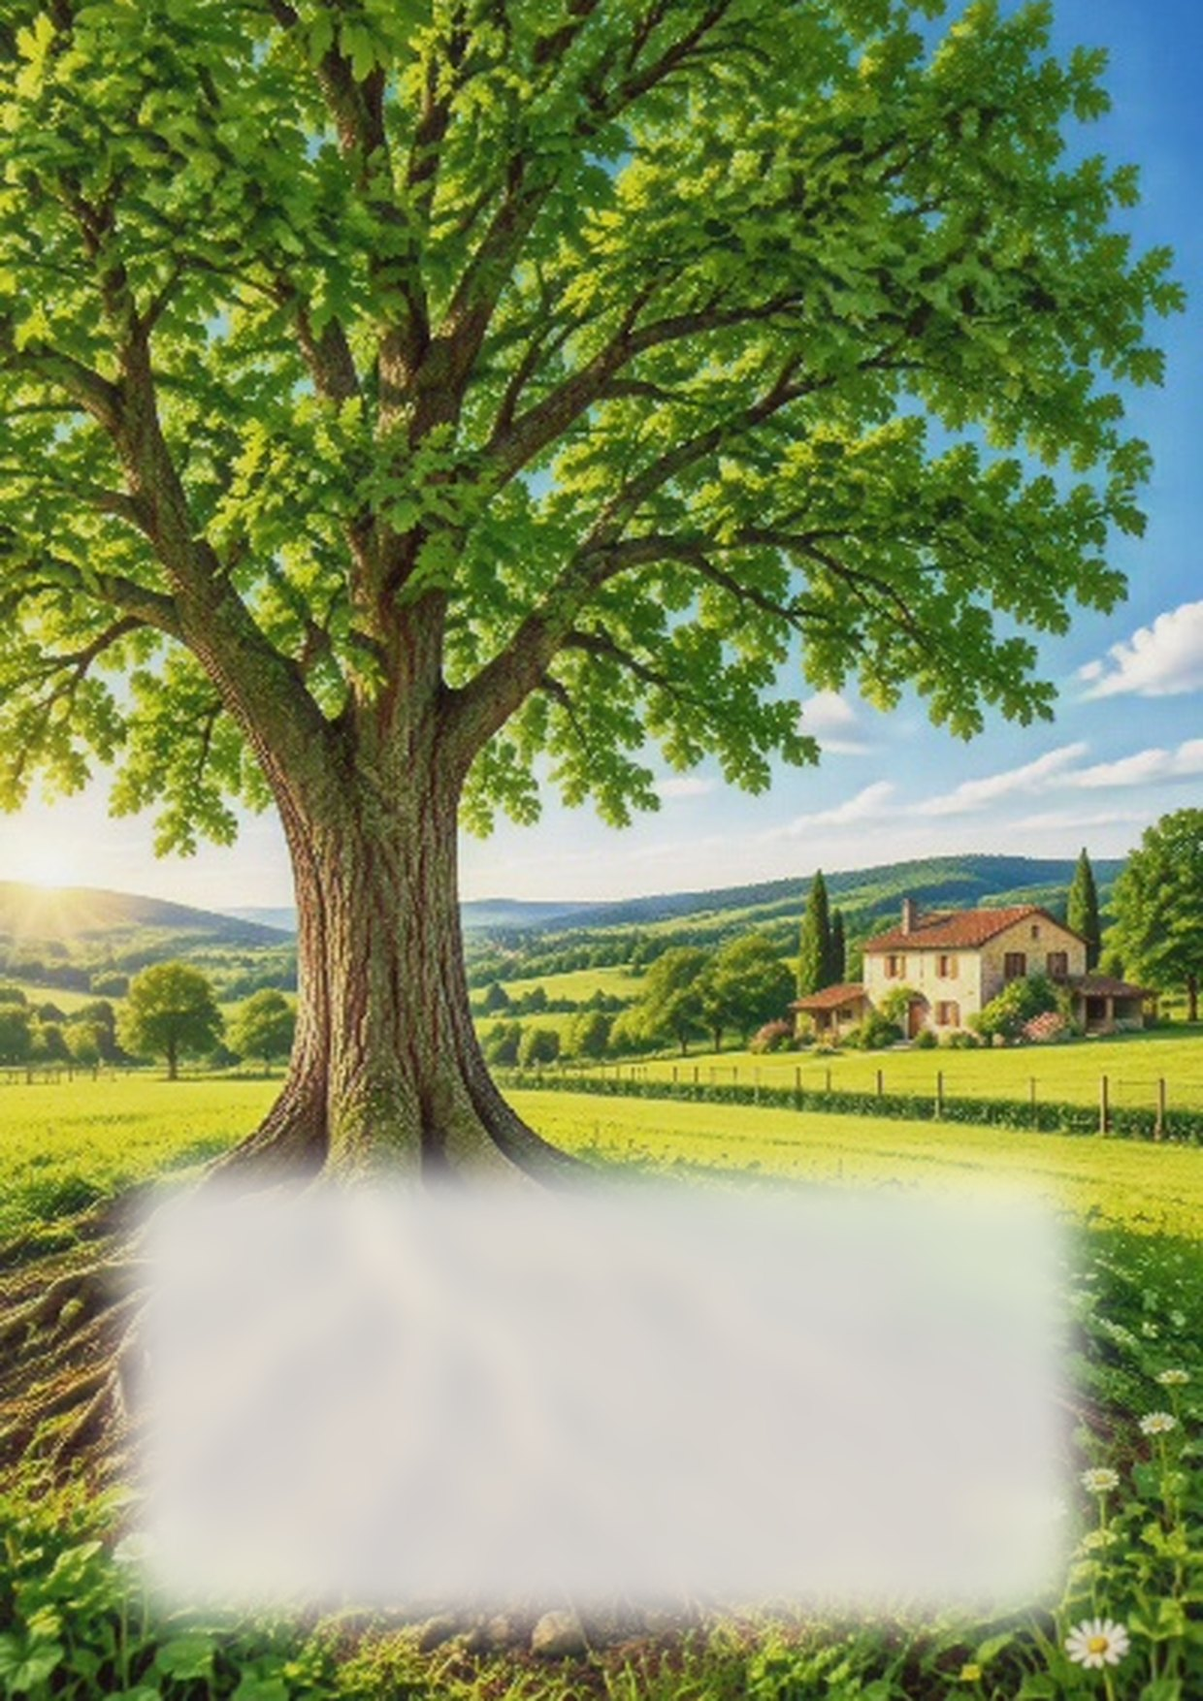
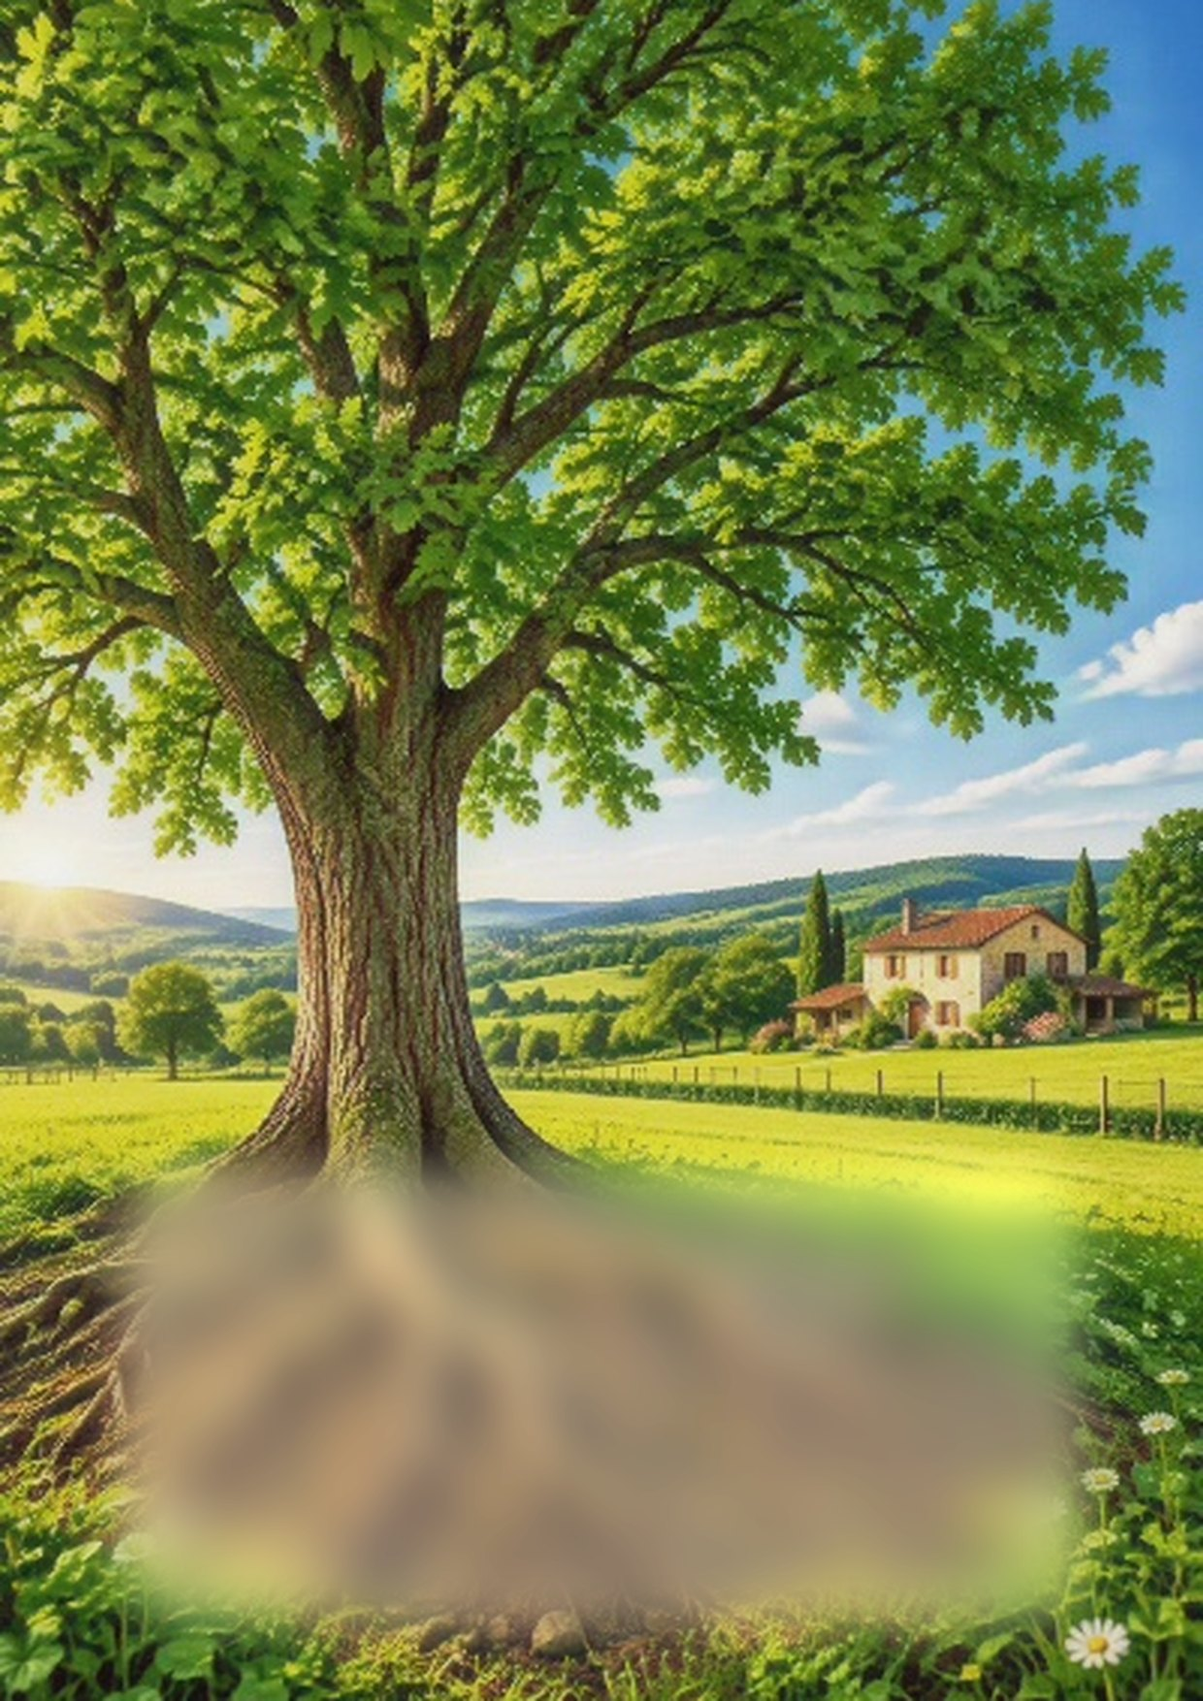
Livre 2.15.1 : panneau flouté transparent à 80 % sur les pochettes à chêne
Claude-Session: https://claude.ai/code/session_015kpz4oPeeMDrzqfLUgTJXp

Changed region(s): [[0.0613, 0.6773, 0.9194, 0.9852]]

diff --git a/modules/book/includes/class-renderer.php b/modules/book/includes/class-renderer.php
@@ -2299,7 +2299,7 @@ body { font-family: Georgia, "DejaVu Serif", serif; font-size: 11pt; line-height
 a { color: inherit; text-decoration: none; }
 a.ref { color: %head%; }
 .cover { text-align: center; padding-top: 4.5cm; page-break-after: always; }
-.cover.art-tree, .cover.art-ornament { padding-top: 2.2cm; } .cover img.cart { display: block; margin: 0 auto; } .cover img.tr { width: 9cm; } .cover img.trw { width: 14cm; } .cover.art-page { padding-top: 17cm; padding-left: 4cm; page-break-after: auto; } .cover.art-page h1 { margin: 0 0 .3em; font-size: 28pt; } .cover.art-page .author { margin-top: .6em; font-size: 12pt; } .cover.art-page.art-meadow { padding-top: 13.2cm; padding-left: 11.6cm; } .cover.art-page.art-meadow h1 { font-size: 21pt; } .cover.art-page.art-chene,.cover.art-page.art-peinture,.cover.art-page.art-chene2,.cover.art-page.art-chene3,.cover.art-page.art-chene4 { padding-top: 21.2cm; padding-left: 3.4cm; padding-right: 3.4cm; text-align: center; } .cover.art-page.art-chene h1,.cover.art-page.art-peinture h1,.cover.art-page.art-chene2 h1,.cover.art-page.art-chene3 h1,.cover.art-page.art-chene4 h1 { font-size: 24pt; } .cover.art-page.art-farm { padding-top: 14cm; padding-left: 5.4cm; } .cover.art-page.art-farm h1 { font-size: 26pt; } .cover.art-page .cover-stats { margin-top: .4cm; } .cover.art-page .gen-date { margin-top: .5cm; } .cover img.fl { width: 12cm; margin: .2cm auto; } .cover.art-tree h1, .cover.art-ornament h1 { margin: .35em 0 .25em; } .cover.art-tree .author, .cover.art-ornament .author { margin-top: 1em; } .cover.art-tree .cover-stats, .cover.art-ornament .cover-stats { margin-top: .6cm; } .cover.art-tree .gen-date, .cover.art-ornament .gen-date { margin-top: 1.2cm; } .cover.long h1 { font-size: 32pt; }
+.cover.art-tree, .cover.art-ornament { padding-top: 2.2cm; } .cover img.cart { display: block; margin: 0 auto; } .cover img.tr { width: 9cm; } .cover img.trw { width: 14cm; } .cover.art-page { padding-top: 17cm; padding-left: 4cm; page-break-after: auto; } .cover.art-page h1 { margin: 0 0 .3em; font-size: 28pt; } .cover.art-page .author { margin-top: .6em; font-size: 12pt; } .cover.art-page.art-meadow { padding-top: 13.2cm; padding-left: 11.6cm; } .cover.art-page.art-meadow h1 { font-size: 21pt; } .cover.art-page.art-chene,.cover.art-page.art-peinture,.cover.art-page.art-chene2,.cover.art-page.art-chene3,.cover.art-page.art-chene4 { padding-top: 21.2cm; padding-left: 3.4cm; padding-right: 3.4cm; text-align: center; } .cover.art-page.art-chene h1,.cover.art-page.art-peinture h1,.cover.art-page.art-chene2 h1,.cover.art-page.art-chene3 h1,.cover.art-page.art-chene4 h1 { font-size: 24pt; } .cover.art-page.art-chene .author,.cover.art-page.art-peinture .author,.cover.art-page.art-chene2 .author,.cover.art-page.art-chene3 .author,.cover.art-page.art-chene4 .author,.cover.art-page.art-chene .cover-stats,.cover.art-page.art-peinture .cover-stats,.cover.art-page.art-chene2 .cover-stats,.cover.art-page.art-chene3 .cover-stats,.cover.art-page.art-chene4 .cover-stats,.cover.art-page.art-chene .gen-date,.cover.art-page.art-peinture .gen-date,.cover.art-page.art-chene2 .gen-date,.cover.art-page.art-chene3 .gen-date,.cover.art-page.art-chene4 .gen-date { color: #1f1a17; font-weight: bold; } .cover.art-page.art-farm { padding-top: 14cm; padding-left: 5.4cm; } .cover.art-page.art-farm h1 { font-size: 26pt; } .cover.art-page .cover-stats { margin-top: .4cm; } .cover.art-page .gen-date { margin-top: .5cm; } .cover img.fl { width: 12cm; margin: .2cm auto; } .cover.art-tree h1, .cover.art-ornament h1 { margin: .35em 0 .25em; } .cover.art-tree .author, .cover.art-ornament .author { margin-top: 1em; } .cover.art-tree .cover-stats, .cover.art-ornament .cover-stats { margin-top: .6cm; } .cover.art-tree .gen-date, .cover.art-ornament .gen-date { margin-top: 1.2cm; } .cover.long h1 { font-size: 32pt; }
 .cover .rule { width: 70%; margin: 0 auto; height: 4px; border-top: 3px solid %head%; border-bottom: 1px solid %head%; }
 .cover h1 { font-size: 42pt; margin: .45em 0 .45em; line-height: 1.15; color: %head%; letter-spacing: .02em; }
 .cover .author { font-size: 14pt; margin-top: 2em; }

diff --git a/tng-suite.php b/tng-suite.php
@@ -2,7 +2,7 @@
 /**
  * Plugin Name: TNG Suite
  * Description: Suite unifiée pour TNG : arbres et descendance, bouton vers la fiche, frise chronologique, heatmap des lieux, galerie de médias, individu au hasard, nuage de noms et anniversaires, statistiques et graphiques, éventail (roue de parenté), implexe et consanguinité, livre généalogique, fiche et listes de documents. Un seul réglage de connexion (wp-config.php ou saisie dans le plugin), de préfixe et d'URL, et un réglage « vivants / privés » par module, en français ou en anglais.
- * Version: 2.15.0
+ * Version: 2.15.1
  * Requires PHP: 7.4
  * Requires at least: 5.8
  * Author: Cédric Malvache
@@ -23,7 +23,7 @@ if ( ! defined( 'ABSPATH' ) ) {
     exit;
 }
 
-define( 'TNGSUITE_VERSION', '2.15.0' );
+define( 'TNGSUITE_VERSION', '2.15.1' );
 define( 'TNGSUITE_FILE', __FILE__ );
 define( 'TNGSUITE_DIR', plugin_dir_path( __FILE__ ) );
 define( 'TNGSUITE_URL', plugin_dir_url( __FILE__ ) );

diff --git a/docs/fr/book.md b/docs/fr/book.md
@@ -38,7 +38,7 @@ La page (onglet **Documents**) comporte trois sections : **Livre : générer un 
 - Contexte historique (listes de faits) : le réglage « Chronologie : avec contexte historique » insère dans la chronologie, en italique, les faits des listes cochées dans la ligne « Contexte historique : listes à utiliser » ; les mêmes listes servent à la phrase « Contexte historique » des fiches. **Listes fournies** : France, Belgique, Suisse, Espagne, Italie, Allemagne, Royaume-Uni, États-Unis et Canada (textes en français, ou en anglais si le livre est dans une autre langue ; pour un livre en catalan ou en espagnol, copiez une liste dans vos listes et traduisez-la). **Vos listes** : dans **TNG Suite > Documents > Livre : réglages > Faits historiques**, créez autant de listes que vous voulez (France, England, Catalunya, España…) et écrivez-y les textes dans la langue de votre choix, une entrée par ligne : `1714-09-11 | Caiguda de Barcelona` pour un événement (date AAAA, AAAA-MM ou AAAA-MM-JJ) ou `1936-07-17 .. 1939-04-01 | la guerra civil` pour une période (guerre, régime… avec son article : elle sert à la phrase des fiches « pendant … » / « a vécu … »). La liste déroulante « Liste à modifier » donne accès à chacune de vos listes (modifiez puis « Enregistrer la liste » ; « Supprimer cette liste » l’efface), ou crée une **nouvelle liste**, vide ou copiée d’une liste fournie (copie modifiable, en français ou en anglais) : elle apparaît ensuite dans cette liste déroulante et dans les cases du formulaire du livre. Les **listes fournies** peuvent être retirées du formulaire du livre : sous l’éditeur, décochez celles dont vous n’avez pas besoin (elles restent disponibles comme modèles à copier ; recochez-les pour les remettre). Vous pouvez aussi exporter une liste en fichier `.txt` et en importer une. **Pour chaque livre** (et chaque profil), la ligne « Contexte historique : listes à utiliser » du formulaire permet de cocher les listes à afficher, par exemple France et Espagne pour monsieur X, et de choisir comment elles s’appliquent : **à tout le livre** (toutes les listes cochées valent pour toutes les personnes ; une même période, comme la Première Guerre mondiale, n’est citée qu’une fois dans les fiches) ou **selon le lieu de naissance** de chaque personne. Dans ce second cas, chaque liste porte des **mots-clés de lieu** (par exemple `Catalunya, Cataluña, Espanya`) : une personne reçoit les listes dont un mot-clé correspond à un élément de son lieu de naissance (ou de baptême), en partant de la fin. Une liste sans mot-clé vaut pour tout le monde (faits de famille, événements personnels) ; une seule liste à mots-clés cochée vaut pour tout le livre ; un lieu sans mot-clé reconnu reçoit la **liste par défaut** (à défaut, la première cochée), sauf s’il nomme un pays connu dont aucune liste n’est cochée (ex. Pologne : rien n’est ajouté). Avec plusieurs listes à mots-clés, une liste n’est retenue que si elle compte au moins deux personnes du livre (ou 3 %), seulement pour la période où ses personnes ont vécu, et chaque fait porte alors le nom de sa liste entre parenthèses. Les événements personnalisés des versions précédentes sont repris dans une liste « Événements personnalisés ».
 - Nouveau livre : le bouton « Nouveau livre » (et un premier réglage du plugin) part des réglages recommandés : modèle Élégant, cadre en filet simple, arbre de couverture en couleurs, format PDF (HTML si le PDF direct est indisponible), photos TNG avec silhouettes génériques, baptême et sépulture, phrases détaillées, lieux avec pays, informations militaires, notes, autres unions, fiche détaillée pour chaque conjoint, enfants des couples, chronologie avec contexte historique et contexte historique dans les fiches, « En chiffres », arbres, listes récapitulatives, cousinages et implexes, index et carte des lieux. Décochés par défaut : frères et sœurs, sources, mode diagnostic. Les profils déjà enregistrés ne changent pas.
 - Cadre autour des pages : « Aucun », « Filet simple », « Double filet » ou « Cadre orné » (angles creusés et filet intérieur, dessiné par le plugin), dans la couleur du livre (« en-têtes et liens »). Valable pour la page imprimable, le PDF, Word et OpenDocument (le cadre orné devient un double filet dans Word et OpenDocument) ; la couverture n’a pas de cadre.
-- Illustration de couverture : « Aucune » (deux filets autour du titre), « Fleurons au-dessus et au-dessous du titre » ou un arbre à l’aquarelle : chêne ample, arbre penché aux branches légères, saule pleureur, arbre feuillu dont les racines sont dessinées dessous, arbre en couleurs (feuillage vert, tronc brun, racines dans la terre, médaillons ronds vides sur les branches), ou « Pochette pleine page » (PDF : fond crème sur toute la première page, arbre à l’aquarelle qui part du bord gauche, titre dessous ; dans les autres formats, l’arbre penché habituel). Deux autres pochettes pleine page (PDF) utilisent des illustrations fournies avec le plugin : un arbre aux étiquettes vierges et aux oiseaux au-dessus d’une prairie fleurie, un grand tronc au feuillage pastel dominant la campagne, et quatre pochettes à chêne ou peinture (chêne aux racines apparentes, chêne ensoleillé, chêne vert, chêne aux couleurs éclatantes, peinture impressionniste) ; le texte de la couverture se place dans la zone libre ou, pour les chênes et la peinture, sur un panneau blanc flouté, peu transparent, en bas de page. Les arbres sont dessinés par le plugin dans la couleur du livre ; ces deux illustrations gardent leurs couleurs.
+- Illustration de couverture : « Aucune » (deux filets autour du titre), « Fleurons au-dessus et au-dessous du titre » ou un arbre à l’aquarelle : chêne ample, arbre penché aux branches légères, saule pleureur, arbre feuillu dont les racines sont dessinées dessous, arbre en couleurs (feuillage vert, tronc brun, racines dans la terre, médaillons ronds vides sur les branches), ou « Pochette pleine page » (PDF : fond crème sur toute la première page, arbre à l’aquarelle qui part du bord gauche, titre dessous ; dans les autres formats, l’arbre penché habituel). Deux autres pochettes pleine page (PDF) utilisent des illustrations fournies avec le plugin : un arbre aux étiquettes vierges et aux oiseaux au-dessus d’une prairie fleurie, un grand tronc au feuillage pastel dominant la campagne, et quatre pochettes à chêne ou peinture (chêne aux racines apparentes, chêne ensoleillé, chêne vert, chêne aux couleurs éclatantes, peinture impressionniste) ; le texte de la couverture se place dans la zone libre ou, pour les chênes et la peinture, sur un panneau flouté très transparent (80 %) en bas de page. Les arbres sont dessinés par le plugin dans la couleur du livre ; ces deux illustrations gardent leurs couleurs.
 - Table des matières : dans le PDF, elle affiche les numéros de page (table native de mPDF, entrées cliquables). Dans la page imprimable, Word et OpenDocument, les entrées renvoient à leur titre sans numéro de page.
 - Autres options du contenu : « Frères et sœurs sur les fiches » (autres enfants de la famille d’origine, avec lien vers leur fiche si elle existe) ; « Autres mariages et unions des ancêtres » (en plus de l’union dont descend la lignée) ; « Cousinages et implexes » (partie ajoutée seulement si un même ancêtre apparaît plusieurs fois) ; « Carte des lieux de vie » (nombre de personnes par département ou province, en noir et blanc) ; « Index des noms et des lieux » et « Sources » ; « Niveaux de lieux affichés » (commune seule ou jusqu’à cinq niveaux).
 - Conjoints : dans l’ascendance, une petite photo du conjoint (réglage « Photos ») accompagne la phrase d’union, avec le lien vers sa fiche détaillée. Dans la descendance, l’option « Une fiche détaillée pour chaque conjoint » (cochée par défaut pour un nouveau réglage, décochée pour les réglages déjà enregistrés) ajoute, à la suite de la fiche du descendant, une fiche pour chaque conjoint qui n’est pas déjà dans le livre (sans petite photo : la fiche suit), numérotée comme le couple suivi de « c » (D12c, D12c2 pour une deuxième union) ; la phrase d’union se limite alors à son nom avec un lien. Un conjoint déjà ancêtre ou descendant, masqué ou écarté n’a pas de fiche supplémentaire : le lien renvoie à sa fiche existante.

diff --git a/docs/en/book.md b/docs/en/book.md
@@ -38,7 +38,7 @@ The page (**Documents** tab) has three sections: **Book: generate a book**, **Bo
 - Historical background (fact lists): the setting “Timeline: with historical background” inserts, in italics, the facts of the lists ticked in the “Historical background: lists to use” row into the chronology; the same lists feed the “Historical background” sentence of the records. **Supplied lists**: France, Belgium, Switzerland, Spain, Italy, Germany, United Kingdom, United States and Canada (texts in French, or in English if the book is in another language; for a Catalan or Spanish book, copy a list into your lists and translate it). **Your lists**: in **TNG Suite > Documents > Book: settings > Historical facts**, create as many lists as you like (France, England, Catalunya, España…) and write the texts in the language of your choice, one entry per line: `1714-09-11 | Caiguda de Barcelona` for an event (date YYYY, YYYY-MM or YYYY-MM-DD) or `1936-07-17 .. 1939-04-01 | the civil war` for a period (war, regime… with its article: used by the records’ “during …” / “lived through …” sentence). The “List to edit” drop-down gives access to each of your lists (edit, then “Save list”; “Delete this list” removes it), or creates a **new list**, empty or copied from a supplied list (editable copy, in French or English): it then appears in that drop-down and in the tick boxes of the book form. The **supplied lists** can be removed from the book form: under the editor, untick those you do not need (they remain available as templates to copy; tick them again to bring them back). You can also export a list as a `.txt` file and import one. **For each book** (and each profile), the “Historical background: lists to use” row of the form lets you tick the lists to display, for example France and Spain for Mr X, and choose how they apply: **to the whole book** (all ticked lists apply to everyone; a period shared by several lists, such as the First World War, is mentioned only once in the records) or **according to each person’s birthplace**. In the latter case, each list has **place keywords** (for example `Catalunya, Cataluña, Espanya`): a person gets the lists with a keyword matching an element of their birthplace (or baptism place), starting from the end. A list without keywords applies to everyone (family facts, personal events); a single ticked list with keywords applies to the whole book; a place with no recognised keyword gets the **default list** (otherwise the first ticked one), unless it names a known country whose list is not ticked (e.g. Poland: nothing is added). With several lists with keywords, a list is kept only if it has at least two people in the book (or 3%), only for the period its people lived, and each fact then shows its list name in brackets. Custom events from earlier versions are moved into a list called “Événements personnalisés”.
 - New book: the “New book” button (and a first-time plugin setup) starts from the recommended settings: Elegant template, single-line frame, colour cover tree, PDF format (HTML if direct PDF is unavailable), TNG photos with generic silhouettes, baptism and burial, detailed sentences, places with country, military information, notes, other unions, a detailed record for each spouse, children of couples, chronology with historical background and historical background in the records, “In figures”, trees, summary lists, cousin marriages and implex, index and places map. Off by default: siblings, sources, diagnostic mode. Profiles already saved do not change.
 - Page frame: “None”, “Single line”, “Double line” or “Ornate frame” (hollowed corners and inner line, drawn by the plugin), in the book colour (“headings and links”). Applies to the printable page, PDF, Word and OpenDocument (the ornate frame becomes a double line in Word and OpenDocument); the cover has no frame.
-- Cover illustration: “None” (two lines around the title), “Flourishes above and below the title” or a watercolour-style tree: broad oak, leaning tree with light branches, weeping willow, a leafy tree with its roots drawn below, a full-colour tree (green foliage, brown trunk, roots in the soil, empty round medallions on the branches), or a “Full-page cover” (PDF: cream background over the whole first page, watercolour tree growing from the left edge, title below; other formats use the usual leaning tree). Two more full-page covers (PDF) use illustrations supplied with the plugin: a tree with blank ribbons and birds above a flowering meadow, a large trunk with pastel foliage overlooking the countryside, and four oak or painting covers (oak with exposed roots, sunlit oak, green oak, vividly coloured oak, impressionist painting); the cover text goes in the free area or, for the oaks and the painting, on a blurred, only slightly transparent white panel at the bottom of the page. The trees are drawn by the plugin in the book colour; these two illustrations keep their own colours.
+- Cover illustration: “None” (two lines around the title), “Flourishes above and below the title” or a watercolour-style tree: broad oak, leaning tree with light branches, weeping willow, a leafy tree with its roots drawn below, a full-colour tree (green foliage, brown trunk, roots in the soil, empty round medallions on the branches), or a “Full-page cover” (PDF: cream background over the whole first page, watercolour tree growing from the left edge, title below; other formats use the usual leaning tree). Two more full-page covers (PDF) use illustrations supplied with the plugin: a tree with blank ribbons and birds above a flowering meadow, a large trunk with pastel foliage overlooking the countryside, and four oak or painting covers (oak with exposed roots, sunlit oak, green oak, vividly coloured oak, impressionist painting); the cover text goes in the free area or, for the oaks and the painting, on a blurred panel, 80% transparent, at the bottom of the page. The trees are drawn by the plugin in the book colour; these two illustrations keep their own colours.
 - Table of contents: in the PDF it shows page numbers (native mPDF table, clickable entries). In the printable page, Word and OpenDocument, entries link to their heading without page numbers.
 - Other content options: “Siblings on the records” (other children of the family of origin, with a link to their record when it exists); “Other marriages and unions of the ancestors” (besides the union the line descends from); “Cousinages and implexes” (part added only when the same ancestor appears several times); “Map of places of life” (number of people per département or province, in black and white); “Index of names and places” and “Sources”; “Place levels shown” (municipality only, or up to five levels).
 - Spouses: in the ancestors section, a small photo of the spouse (“Photos” setting) goes with the union sentence, with the link to their detailed record. In the descendants section, the option “a detailed record for each spouse” (ticked by default for new settings, unticked for settings already saved) adds, right after the descendant’s record, a record for every spouse who is not already in the book (no small photo: the record follows), numbered like the couple followed by “c” (D12c, D12c2 for a second union); the union sentence is then limited to the name with a link. A spouse who is already an ancestor or descendant, hidden or dropped gets no extra record: the link points to the existing one.
